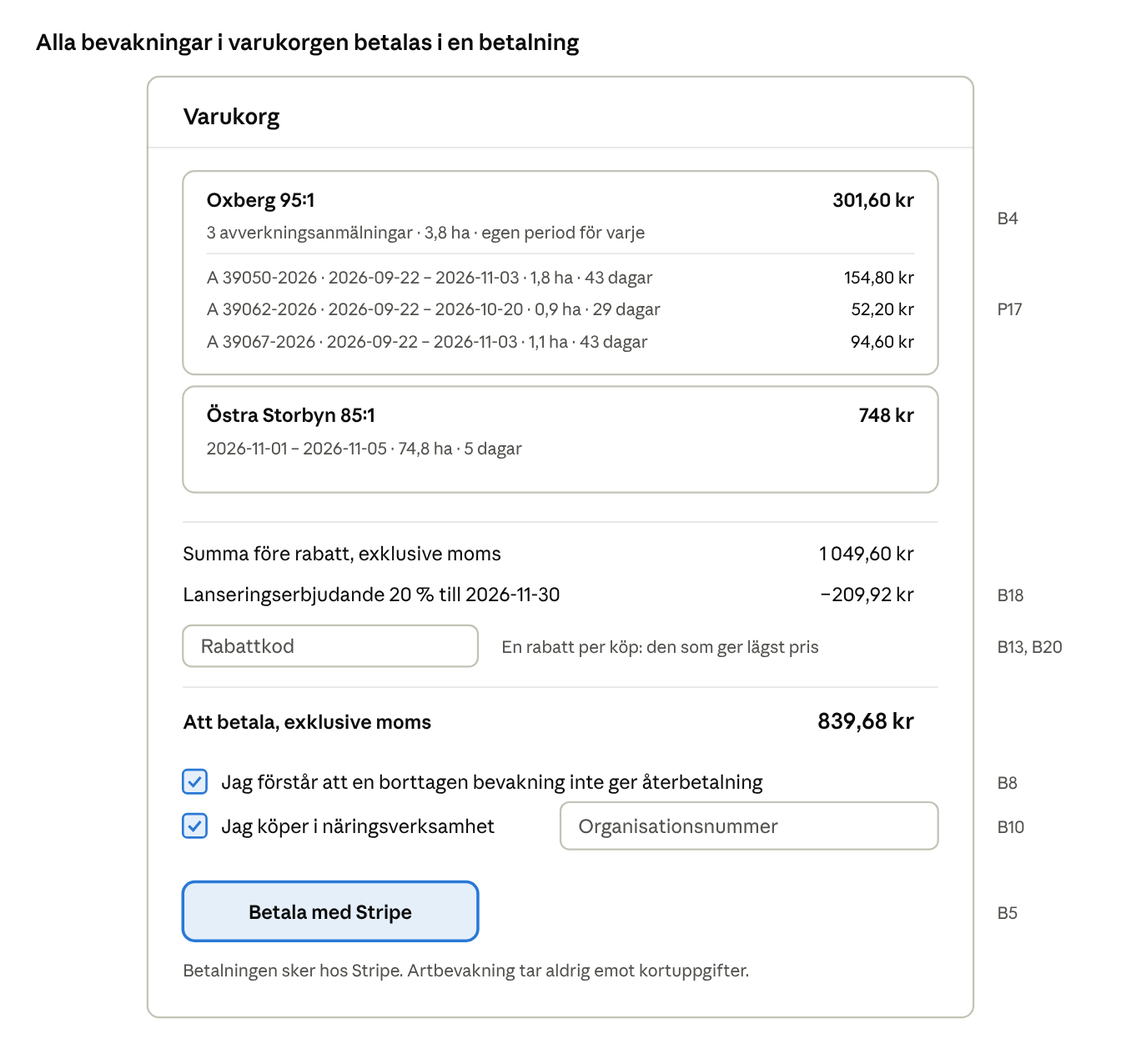
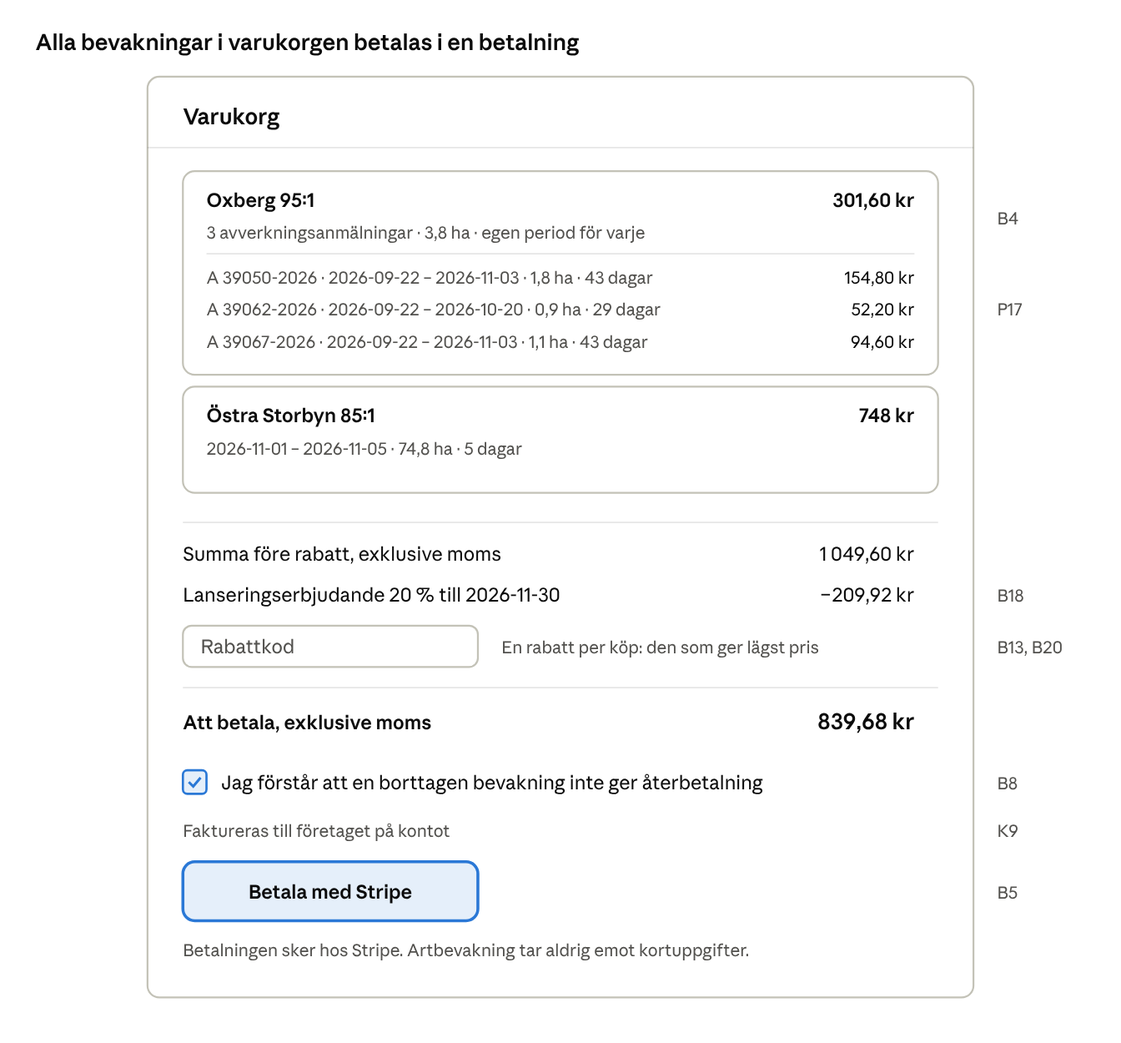
Beslut från grillningen: organisationsnummer vid registrering, rader, sökning per bevakning, svenska, återbetalning m.m.

diff --git a/artlarm/docs/PRD.md b/artlarm/docs/PRD.md
@@ -58,7 +58,7 @@ Kraven är numrerade så att de kan refereras i test och uppföljning. "Ska" är
 
 | ID | Krav |
 | --- | --- |
-| K1 | En kund ska kunna skapa ett personligt konto med e-postadress och lösenord. |
+| K1 | En kund ska kunna skapa ett konto för sitt företag med e-postadress, lösenord och organisationsnummer (K9). |
 | K2 | E-postadressen ska verifieras med länk innan bevakningar kan betalas (förslag). |
 | K3 | Kunden ska kunna logga in, logga ut och återställa lösenord via e-post. Version 1 har e-post och lösenord; valfri tvåfaktor för kunder och BankID är möjliga senare utökningar (avsnitt 15). |
 | K4 | Lösenord lagras hashade med modern algoritm (t.ex. Argon2 eller bcrypt); inloggningsförsök begränsas mot gissning. |
@@ -66,6 +66,8 @@ Kraven är numrerade så att de kan refereras i test och uppföljning. "Ska" är
 | K6 | Kunden ska kunna avsluta sitt konto. Alla pågående bevakningar tas då också bort och bevakningen upphör direkt. kunden måste först bekräfta, efter att ha informerats om att ingen återbetalning sker och vilka bevakningar som tas bort (som H2). Personuppgifter raderas enligt avsnitt 9, utom det som måste sparas för bokföring. |
 | K7 | Vid registrering ska kunden aktivt godkänna att hens uppgifter lagras och behandlas (GDPR), efter att ha läst integritetspolicyn. Utan godkännande skapas inget konto. Rutans text innehåller en länk till integritetspolicyn. Godkännande, policyns version och tidpunkt loggas. Den rättsliga grunden fastställs i avsnitt 9. |
 | K8 | Vid registrering ska kunden aktivt godkänna användarvillkor som bland annat anger att ingen återbetalning sker, ansvarsbegränsning och datakällornas begränsningar. Rutans text innehåller en länk till användarvillkoren, som kan läsas innan godkännandet. Godkännande, villkorens version och tidpunkt loggas. Vid väsentligt ändrade villkor ska kunden godkänna de nya vid nästa inloggning. Utkast till villkoren och till integritetspolicyn finns i avsnitt 14. |
+| K9 | Vid registrering ska kunden ange organisationsnummer (tio siffror, svenskt) och aktivt intyga med en ikryssad ruta att registreringen sker i näringsverksamhet. Numret formatkontrolleras men kontrolleras inte mot register i version 1. Utan nummer och intyg skapas inget konto. Intyg, organisationsnummer och tidpunkt sparas och skrivs på kvitto och faktura. |
+| K10 | Ett organisationsnummer kan bara ha ett konto i version 1. Numret låses på kontot efter registreringen och kan ändras bara av support. Flera användare per organisation är en framtida utökning (avsnitt 15.2 och 15.3). Enskilda firmor tillåts; då är organisationsnumret ett personnummer och behandlas som personuppgift: det visas aldrig i mejl eller statistik och skrivs bara på fakturan och i kontots egna inställningar (avsnitt 9). |
 
 ### 5.2 Bevakningar och fastigheter
 
@@ -89,6 +91,7 @@ Kraven är numrerade så att de kan refereras i test och uppföljning. "Ska" är
 | P16 | Fastighetens geometri och de valda avverkningsanmälningarnas ytor sparas som en ögonblicksbild vid köp och används under hela bevakningen, även om Lantmäteriets eller Skogsstyrelsens data ändras senare. |
 | P17 | Vid avverkningsval har varje vald avverkningsanmälan egen period, egen yta och eget pris (en rad). Ett fynd ger notis för en rad bara om det ligger inom radens yta och period, och notisen anger ärendenummer. Bevakningen är en kundens enhet för köp, varukorg och borttagning; raderna har egen status och egen förlängning. |
 | P18 | Valda avverkningsanmälningar prissätts var och en för sig, även när deras ytor och perioder överlappar; ingen sammanslagning av ytor görs. Fakturan visar därför en rad per anmälan. |
+| P19 | Ändras eller försvinner en avverkningsanmälan ur Skogsstyrelsens fil efter köpet fortsätter raden med den frusna ytan (P16), utan återbetalning (B8). Raden får en markering i Mina bevakningar ("anmälan finns inte längre hos Skogsstyrelsen"), men kunden får ingen särskild notis. |
 
 ### 5.3 Mottagare
 
@@ -110,6 +113,7 @@ Kraven är numrerade så att de kan refereras i test och uppföljning. "Ska" är
 | L7 | Varje kontroll som hittar nya observationer skickar ett enda mejl per bevakning med alla nya observationer i en lista (art, tid, länk, ärendenummer vid avverkningsval, markering för osäkert läge), sorterad efter observationernas klockslag. En inventering som pagår längre än tiden mellan kontrollerna kan därför ge flera mejl, ett för varje kontroll där nya observationer har tillkommit. |
 | L8 | Tjänsten gör en kontroll var 15:e minut. Löftet till kunden är en notis inom 30 minuter från att observationen syns i SOS (95 % av notiserna). SOS visade i en mätning 2026-10-27 nya observationer ca 10 minuter efter rapport. Avverkningsfilen hämtas nattligen. |
 | L9 | Ett mejl visar högst de 50 senaste observationerna och antalet övriga. Alla träffar ligger som CSV-bilaga. Det gäller både startrapport och vanliga notiser vid stor inventering. |
+| L10 | Ett fynd som ligger inom flera raders yta och period ger en enda notis per bevakning, som listar alla matchande ärendenummer (L4, P17). |
 
 ### 5.5 Daglig sammanfattning
 
@@ -204,10 +208,10 @@ Kunden betalar 2 kr per hektar och dag för bevakad yta, i förskott, och priset
 | B4 | Kunden ska kunna lägga flera bevakningar i en varukorg och betala allt på en gång, med en enda betalning. |
 | B5 | Betalning görs med en extern betalningslösning, t.ex. Stripe Checkout. Kortuppgifter hanteras aldrig av Artbevakning. Version 1 stöder kortbetalning; Swish och faktura kan komma senare. |
 | B6 | En bevakning aktiveras först när betalningen bekräftats av betalningsleverantörens webhook. Webhooks hanteras idempotent så att samma betalning inte aktiverar två gånger. |
-| B7 | Kunden får en betald faktura (via Stripe Invoicing) med specifikation per bevakning (fastighet, hektar, dagar, belopp, moms) och vid avverkningsval per avverkningsanmälan (ärendenummer, hektar, period, dagar, belopp), som mejlas. Moms beräknas med Stripe Tax: 25 %, och omvänd skattskyldighet för EU-företag med giltigt momsnummer. Kunden anger organisationsnummer (B10) och fakturaadress i kassan. |
+| B7 | Kunden får en betald faktura (via Stripe Invoicing) med specifikation per bevakning (fastighet, hektar, dagar, belopp, moms) och vid avverkningsval per avverkningsanmälan (ärendenummer, hektar, period, dagar, belopp), som mejlas. Moms beräknas med Stripe Tax: 25 % för svenska företag; EU-företag med momsnummer och omvänd skattskyldighet är en framtida utökning. Fakturan använder kontots organisationsnummer (K9) och kunden anger fakturaadress i kassan. |
 | B8 | En borttagen bevakning ger ingen återbetalning. Kunden informeras vid köp och vid borttagning och måste bekräfta (H2). |
 | B9 | Dagar räknas från och med startdatum till och med slutdatum och inkluderar dagar före köpdatum. Vid avverkningsval räknas dagarna per rad. Perioden har ingen fast längdgräns; en varning visas över 3 månader (P4). |
-| B10 | Tjänsten säljs till företag och yrkesutförare. Priser visas exklusive moms och moms läggs på vid betalning. Köparen intygar vid köp med en ikryssad ruta att det sker i näringsverksamhet och anger organisationsnummer (obligatoriskt). Numret formatkontrolleras men kontrolleras inte mot register i version 1. Intyg, organisationsnummer och tidpunkt sparas och skrivs på kvittot. |
+| B10 | Tjänsten säljs till företag och yrkesutförare. Priser visas exklusive moms och moms läggs på vid betalning. Intyget om näringsverksamhet och organisationsnumret anges vid registreringen (K9) och frågas inte om vid köp; kassan visar vem som faktureras. Kontots uppgifter skrivs på kvitto och faktura. |
 | B11 | Ett konfigurerbart tak per köp (belopp eller hektar) gäller. Över taket visas "kontakta oss" i stället för betalning. Taket är initialt 5 000 kr per köp, ändras av en administratör (förslag) och är den hårda gränsen; det finns ingen separat gräns för periodens längd. Taket gäller varukorgens fullpris före rabatt, och komplettering och förlängning räknas som övriga rader i samma varukorg. |
 | B12 | Support sker via e-post till support@mjukvaruverkstan.se, som visas i gränssnittet och i mejlen. Adressen finns inte ännu och måste skapas före lansering. Svar ges inom 3 arbetsdagar och svarstiden anges för kunden. Återbetalning görs bara manuellt, via Stripe, när fel uppstått hos Artbevakning. |
 | B13 | Kunden ska kunna ange en rabattkod i varukorgen. En giltig kod ger en procentuell rabatt på varukorgens belopp före moms, som visas på en egen rad med nytt totalbelopp. En ogiltig eller borttagen kod ger ett tydligt felmeddelande. |
@@ -216,9 +220,10 @@ Kunden betalar 2 kr per hektar och dag för bevakad yta, i förskott, och priset
 | B16 | Ytan avrundas uppåt per bevakning, vid avverkningsval per rad, till närmaste 0,1 ha (aldrig nedåt) och priset räknas exakt i öre. Minsta belopp per köp är 200 kr, räknat på varukorgens fullpris före rabatt och exklusive moms; är fullpriset lägre debiteras 200 kr. |
 | B17 | Priset låses när kunden går till kassan. Varukorgen sparas 7 dagar; öppnas kassan igen räknas priset om. En betalning gäller hela varukorgen: antingen aktiveras alla bevakningar eller ingen. En misslyckad betalning lämnar varukorgen kvar. |
 | B18 | Ett tidsbegränsat erbjudande är en procentuell rabatt som gäller alla kunder automatiskt, utan kod, på hela varukorgen (alla rader, även kompletteringar och förlängningar). Det har namn, rabatt i procent (1–99), startdatum och slutdatum med klockslag i svensk tid. Vilket erbjudande som gäller avgörs när priset låses vid kassan (B17); en betalning som slutförs efter erbjudandets slut behåller rabatten om kassan öppnades under erbjudandet (kassans giltighet högst 24 timmar, förslag). Högst ett erbjudande får vara aktivt åt gången. |
-| B19 | Förstagångsrabatten är en procentuell rabatt (1–99) på ett organisationsnummers första genomförda köp. Den ges automatiskt i kassan och kan slås på och av, och procenten kan ändras, av en administratör. Ett köp räknas som första när betalningen genomförts; ett köp på 0 kr räknas inte. Rabatten följer organisationsnumret (B10) så att den inte tas flera gånger genom att skapa nya konton; eftersom numret bara formatkontrolleras i version 1 är skyddet begränsat. |
+| B19 | Förstagångsrabatten är en procentuell rabatt (1–99) på ett organisationsnummers första genomförda köp. Den ges automatiskt i kassan och kan slås på och av, och procenten kan ändras, av en administratör. Ett köp räknas som första när betalningen genomförts; ett köp på 0 kr räknas inte. Rabatten följer kontots organisationsnummer (K9, K10); eftersom numret bara formatkontrolleras i version 1 kan någon registrera ett annat nummer, så skyddet är begränsat. |
 | B20 | Ett köp får en enda rabatt: den som ger lägst pris av erbjudandet, förstagångsrabatten och rabattkoden. Rabatter kombineras inte (jfr B14). Anger kunden en rabattkod som ger mindre rabatt än den som redan gäller visas ett meddelande och den bättre rabatten behålls. |
 | B21 | Gällande erbjudande (namn, procent och slutdatum) visas på sidan Ny bevakning och i varukorgen, och den rabatt som används visas på en egen rad med belopp före moms och nytt totalbelopp. Rabattens namn och procent sparas på köpet och skrivs på fakturan och kvittot (B7, B14). Rabatten räknas på varukorgens belopp före moms; beloppstaket (B11) och minsta beloppet (B16) räknas på fullpriset före rabatt. |
+| B22 | Vid full återbetalning av ett köp (B12) återställs förstagångsrabatten och den inbjudnas rabatt. Inbjudarens rabatt dras tillbaka om den inte hunnit användas; har den redan använts sker ingen justering. |
 
 **Räkneexempel (förslag på beräkning, belopp utan moms):**
 
@@ -278,8 +283,10 @@ Tjänsten ska drivas på egen server eller i en molntjänst, till exempel AWS, o
 | D16 | Lokal provning | Lokalt kan tjänstens klocka ställas fram, så att kontrollen var 15:e minut, sammanfattningen kl 09:00, periodens slut, de 14 dagarna efter slutdatum och varukorgens 7 dagar går att pröva utan att vänta. Mot Artdatabanken, Lantmäteriet och Skogsstyrelsen används de riktiga tjänsterna med nycklar i en lokal .env-fil som inte checkas in; för tester finns inspelade svar så att de går utan nät och nycklar. Lokal seed-data har två exempelfastigheter (Mora Oxberg 95:1 och Östra Storbyn 85:1), ett testkonto och en testadministratör med fast tvåfaktorkod som bara gäller lokalt. |
 | D17 | Gränssnitt | Webbgränssnittet ska fungera på mobil, iPad och dator i vanliga webbläsare, från en skärmbredd på ca 375 px: responsiv layout, tabeller och datumfält per rad som staplas på smal skärm, och tryckytor som går att träffa med fingret (minst 44 px, förslag). Kassan (Stripe Checkout) och mejlens länkar ska fungera i mobilens webbläsare. Samma funktioner finns på alla enheter. |
 | D18 | Installation | Första lösningen ska gå att installera lokalt på en Mac eller en Linux-maskin (Apple-silikon och x86-64) med bara Docker och Git som förutsättningar: ett kommando för installation, ett för start, ett för stopp och ett som rensar den lokala datan, och en kort beskrivning. Ingen molnresurs behövs. Samma containerbilder används som på AWS (D12). |
-| D19 | Bokföring | Bokföring går genom en adapter med två lägen: simulerad Bokio och Bokio. Den simulerade tar emot anrop av samma slag som Bokios API (verifikat, fakturor och bilagor), visar dem i en enkel lokal lista som kan hämtas som CSV och kontaktar aldrig Bokio. Varje betald faktura (B7), kreditering och Stripe-avgift ger ett verifikat med intäkt, moms och avgift. Skiftet till Bokio sker via konfiguration, med en integrationstoken som hålls utanför koden. Riktiga Bokio ingår inte i första lösningen. |
+| D19 | Bokföring | Bokföring går genom en adapter med två lägen: simulerad Bokio och Bokio. Den simulerade tar emot anrop av samma slag som Bokios API (verifikat, fakturor och bilagor), visar dem i en enkel lokal lista som kan hämtas som CSV och kontaktar aldrig Bokio. Varje betald faktura (B7), kreditering och Stripe-avgift ger ett verifikat med intäkt, moms och avgift. Skiftet till Bokio sker via konfiguration, med en integrationstoken som hålls utanför koden. Riktiga Bokio ingår inte i första lösningen. Kontona i verifikaten (intäkt, utgående moms, avgift och utbetalning) är en inställning med BAS-standardens konton som utgångspunkt; kontoplanen fastställs av bokföraren innan riktiga Bokio kopplas in. |
 | D20 | Område | Första lösningen behöver bara fungera för fastigheter i Dalarnas län. En fastighet utanför länet avvisas vid sökningen med ett begripligt meddelande. Avverkningsfilen läses in filtrerad på Dalarnas län, observationssökningen begränsas till länet och fastighetsuppslagen görs bland länets 15 kommuner. Länet ska vara en inställning, så att fler län kan läggas till utan kodändring. |
+| D21 | Sökning | Sökningen mot SOS görs en gång per bevakning och kontroll, över de aktiva radernas samlade yta och tidigaste startdatum. Filtreringen på yta och period per rad görs i tjänstens egen databas, och utgångna rader ingår inte i sökningen. |
+| D22 | Språk | Gränssnitt, mejl, villkor och fakturor är på svenska i version 1. Andra språk är en framtida utökning. |
 
 ## 9. Juridik, integritet och villkor
 
@@ -289,13 +296,14 @@ Innan tjänsten tas betalt för behöver följande kläras av jurist; punkterna 
 | --- | --- |
 | Personuppgifter (GDPR) | Tjänsten lagrar kundens e-postadress och kan lagra telefonnummer, plus uppgifter om vilka fastigheter en person bevakar. Behöver integritetspolicy, laglig grund, personuppgiftsbiträdesavtal med molnleverantör, Stripe och e-postleverantör, samt rutin för radering och utdrag. Aktivt godkännande vid registrering (K7) är ett krav från beställaren; om det juridiskt ska vara samtycke eller information, och vilken rättslig grund som gäller, avgörs av juristen. |
 | Mottagare | Endast kontoinnehavarens egen e-postadress får notiser. Det undviker att Artbevakning hanterar uppgifter om tredje part och därmed blir personuppgiftsbiträde åt kunden för andra mottagares adresser (juristen bekräftar). |
-| Villkor och återbetalning | Ingen återbetalning när en bevakning tas bort. Kunden informeras vid köp och vid borttagning och bekräftar (H2, B8). Om konsumenter ska kunna köpa måste ångerrätt vid distansköp och samtycke till direkt påbörjad tjänst hanteras; om tjänsten riktas till företag och yrkesutförare kan det förenklas. Beslut: tjänsten säljs till företag och yrkesutförare, vilket förenklar konsumentreglerna; köparen intygar med en ruta och anger organisationsnummer vid köp (B10). |
+| Villkor och återbetalning | Ingen återbetalning när en bevakning tas bort. Kunden informeras vid köp och vid borttagning och bekräftar (H2, B8). Om konsumenter ska kunna köpa måste ångerrätt vid distansköp och samtycke till direkt påbörjad tjänst hanteras; om tjänsten riktas till företag och yrkesutförare kan det förenklas. Beslut: tjänsten säljs till företag och yrkesutförare, vilket förenklar konsumentreglerna; kunden intygar vid registreringen med en ruta och anger organisationsnummer (K9). |
 | Moms och bokföring | Moms på tjänsten (förmodligen 25 %), kvitto/faktura enligt kraven, och lagring av transaktionsunderlag enligt bokföringslagen, vilket begränsar radering av ett konto (K6). |
 | Datalicenser | Artdatabankens villkor, licenser per datakälla i SOS (iNaturalist-observatörer väljer licens per observation och den följer med i SOS-datat; i ett stickprov kring Uppsala (14 230 observationer sedan 2026-01-01) hade 1 952 av 2 560 iNaturalist-observationer licensen cc-by-nc, som utesluter kommersiell användning, medan Artportalens fynd anges som "Free usage" utan uttalad licens), Lantmäteriets villkor för kommersiell tjänst och avverkningsanmälans licens (Skogsstyrelsen: CC0, klarlagd). Notiserna visar art, tid, ungefärligt läge och länk, inte bilder. Frågor till juristen: (1) räknas notisens innehåll som användning av licensierat material, (2) gäller "icke-kommersiell" en betald tjänst som bara visar fakta och länk, och (3) ger Artdatabankens villkor för SOS rätt till kommersiell användning av alla källor. |
 | Skyddade arter | Fynd som Artdatabanken har dolt eller generaliserat ger inget eller bara osäkert notis, medan öppna fynd av skyddade arter ger notis; detta ska framgå i villkoren så att tjänsten inte läses som en fullständig garanti. |
 | Ansvar | Notiserna är information från tredje part och kan vara försenade, ofullständiga eller ha osäkert läge. Villkoren ska innehålla ansvarsbegränsning. Ingen ägarkontroll görs av fastigheter i version 1; villkoren lägger ansvaret på kunden (juristen bekräftar). |
 | Cookies | Endast nödvändiga cookies för inloggning i första versionen, så att ingen samtyckesbanner behövs (förslag). Det gäller så länge reklamen inte använder tredjepartsskript eller spårning (avsnitt 16). |
 | Besöksstatistik och kakor | Statistiken (avsnitt 5.9) är tänkt att samlas in utan kakor och utan lagrad IP-adress, för att undvika samtycke och kakbanner. En jurist ska bekräfta att det håller och att koppling av användningshändelser till kontot täcks av berättigat intresse eller avtal, samt godkänna texten i integritetspolicyn. |
+| Enskild firma och personnummer | Organisationsnumret för en enskild firma är ett personnummer, som är särskilt skyddat i svensk lag (K10). Tjänsten sparar numret och visar det bara på fakturan och i kontots inställningar. En jurist ska bekräfta att det håller och vad policyn ska säga. |
 
 ## 10. Mätetal och acceptanskriterier
 
@@ -328,7 +336,7 @@ Kraven "så snart" (L1) och daglig sammanfattning kl 09:00 (S2) blir mätbara me
 | B13, A2, A4 | En giltig kod sänker totalen med rätt procent och visas på kvittot. En borttagen kod avvisas i nya köp men påverkar inte tidigare köp. Ändrat grundpris gäller nya köp, och redan köpta bevakningar behåller sitt pris. En vanlig kund når inte administrationen (A6). |
 | H4, H5 | En bevakning på 30 dagar kan förlängas; blir den totala perioden längre än 3 månader visas en varning, och förlängningen avvisas bara om köpet överstiger taket. Förlängningen ligger i varukorgen och ändrar slutdatum först när betalningen är bekräftad. |
 | P13 | Listan visar alla fastighetens avverkningsanmälningar i källan. Priset räknas bara på valda avverkningsanmälningar, och en fastighet utan någon vald avverkningsanmälan kan inte köpas med valet. Förvalt startdatum är den tidigaste valda avverkningsanmälans inkomdatum och förvalt slutdatum är den senaste valda plus 6 veckor. |
-| B10 | Ett köp utan ikryssat intyg, eller utan organisationsnummer i giltigt format, avvisas. Intyg, organisationsnummer och tidpunkt finns sparade och står på kvittot. |
+| B10 | En registrering utan ikryssat intyg, eller utan organisationsnummer i giltigt format, avvisas, och ett organisationsnummer som redan har ett konto avvisas. Intyg, organisationsnummer och tidpunkt finns sparade och står på kvittot, och kassan frågar inte efter dem. |
 | A1 | En administratör kan inte logga in utan tvåfaktor, och administratörskonton kan inte skapas eller göras till administratör via gränssnittet eller API:t. |
 | P14 | För Östra Storbyn 85:1 med båda avverkningsanmälningarna valda (inkomna 2023-05-31 och 2026-02-18) blir förvald period 2023-05-31 till 2026-04-01 med en varning om att den är längre än 3 månader, och köpet avvisas eftersom priset överstiger 5 000 kr. |
 | L6 | I förvalt läge ges notis för Artportalens fynd och observationer med cc0, cc-by eller cc-by-sa, men inga med cc-by-nc, cc-by-nc-sa eller utan angiven licens från andra källor än Artportalen. Administratören kan ändra filtret utan ny version. |
@@ -341,6 +349,7 @@ Kraven "så snart" (L1) och daglig sammanfattning kl 09:00 (S2) blir mätbara me
 | D17 | Registrering, ny bevakning med flera rader, varukorg, betalning och Mina bevakningar går att genomföra på en mobil (375 px bred) och på en iPad utan sidledes rullning och med alla knappar och fält nåbara med fingret. |
 | D18–D20 | På en ren Mac och en ren Linux-maskin med Docker och Git startar installationskommandot hela tjänsten. Ett simulerat köp av en bevakning för en fastighet i Dalarna ger en aktiv bevakning, en faktura, en notis i mejlfångaren och ett verifikat i den simulerade Bokio. En fastighet utanför Dalarna avvisas med ett begripligt meddelande. |
 | T1–T8 | Efter en testkörning med besök, registrering, köp och notiser visar administrationens statistik rätt antal i varje steg av trattten, och databasen innehåller ingen IP-adress. Inga kakor utom inloggningens sätts. Ett avslutat konto saknar kopplade händelser. Statistiken syns inte för vanliga kunder. |
+| K9, K10, P19, L10, B22, D21 | Ett andra konto med samma organisationsnummer avvisas, och numret kan inte ändras av kunden. En avverkningsanmälan som försvinner ur filen efter köpet ger en markering på raden men bevakas vidare utan ny yta och utan notis. Ett fynd inom två överlappande rader ger en notis med båda ärendenumren. Efter full återbetalning kan förstagångsrabatten användas igen. En bevakning med tre rader ger en sökning mot SOS per kontroll. |
 
 ## 11. Milstolpar och leveransplan
 
@@ -375,7 +384,7 @@ Alla frågor har besvarats av beställaren och är inlagda i kraven.
 | 10. Pris för komplettering | Nya hektar × återstående dagar × grundpris. Slutdatum är oförändrat. | P11 |
 | 11. Rabattkodens regler | Flergångskod utan giltighetstid, en kod per köp, ingen kombination av koder. | B14 |
 | 12. Vilka avverkningsanmälningar räknas | Kunden väljer avverkningsanmälningar i en lista över källans hela period (ca 5 år). Startdatum föreslås som tidigaste valda avverkningsanmälan och slutdatum som senaste valda plus 6 veckor (P13, P14). | P13 |
-| 13. Intyg om näringsverksamhet | Ikryssad ruta plus obligatoriskt organisationsnummer. Formatkontroll men ingen registerkontroll i version 1. | B10 |
+| 13. Intyg om näringsverksamhet | Ikryssad ruta plus obligatoriskt organisationsnummer, båda vid registreringen. Formatkontroll men ingen registerkontroll i version 1. | B10 |
 | 14. Administratörer | Tvåfaktor krävs. Administratörer skapas manuellt av driftansvarig, inte via gränssnittet. | A1 |
 | 15. En fastighet per bevakning | Flera fastigheter bevakas med flera bevakningar i samma varukorg. | P1 |
 | 16. Geometri vid köp | Ögonblicksbild av fastigheten och de valda avverkningsanmälningarna sparas vid köp. | P16 |
@@ -396,7 +405,7 @@ Alla frågor har besvarats av beställaren och är inlagda i kraven.
 | 31. Administratörens insäkt | Skrivskyddad, bara vid supportärende och loggad. | A7 |
 | 32. Molntjänst | AWS i Stockholm (eu-north-1) med hanterade tjänster. | D1 |
 | 33. Databas | PostgreSQL med PostGIS; geometri och skärningar i databasen. | D2 |
-| 34. Faktura | Betald faktura via Stripe Invoicing och Stripe Tax; organisationsnummer och fakturaadress i kassan. | B7 |
+| 34. Faktura | Betald faktura via Stripe Invoicing och Stripe Tax; kontots organisationsnummer och fakturaadress i kassan. | B7 |
 | 35. Kundinloggning | E-post och lösenord i version 1; tvåfaktor och BankID senare. | K3, avsnitt 15 |
 | 36. Bolag och domän | Bolaget bestäms senare; platshållarna i avsnitt 14 står kvar. Avsändardomän med SPF, DKIM och DMARC (D9) väljs när bolaget är känt. | D9, avsnitt 14 |
 | 37. Namn | Tjänsten heter Artbevakning, produkten bevakning och meddelandet notis (inte larm). Mappen artlarm/ och prototypens kod byter namn när bygget startar. | Glossarium |
@@ -416,6 +425,16 @@ Alla frågor har besvarats av beställaren och är inlagda i kraven.
 | 51. Bara Dalarna först | Första lösningen gäller fastigheter i Dalarnas län; länet är en inställning. | D20 |
 | 52. Egen statistik, inga kakor | Besöks- och användningsstatistik lagras i egen databas, utan kakor, utan IP-adress och utan tredjepartsverktyg. | T1, T2, T5 |
 | 53. Ingen spårning i mejl | Notiser mäts bara vid utskick; ingen spårningsbild och inga spårade länkar. | T4 |
+| 54. Organisationsnummer vid registrering | Organisationsnummer och intyg om näringsverksamhet anges vid registreringen och låses på kontot. | K9, K10, B10 |
+| 55. Ett konto per organisationsnummer | Ett organisationsnummer kan bara ha ett konto; flera användare är en framtida utökning. | K10 |
+| 56. Enskild firma tillåts | Personnumret som organisationsnummer behandlas som personuppgift och visas bara på fakturan. | K10 |
+| 57. Bara svenska företag | Bara svenska organisationsnummer i version 1; EU-företag med momsnummer är en framtida utökning. | K9, B7 |
+| 58. Svenska som enda språk | Gränssnitt, mejl, villkor och fakturor på svenska i version 1. | D22 |
+| 59. Anmälan som försvinner | Raden bevakas vidare med den frusna ytan, markeras och ger ingen återbetalning eller notis. | P19 |
+| 60. En notis för överlappande rader | Ett fynd i flera rader ger en notis som listar alla ärendenummer. | L10 |
+| 61. Sökning per bevakning | En SOS-sökning per bevakning och kontroll; filtrering per rad i egen databas. | D21 |
+| 62. Återbetalning återställer rabatter | Full återbetalning återställer förstagångsrabatten och den inbjudnas rabatt; inbjudarens dras tillbaka om den inte använts. | B22 |
+| 63. BAS-konton i simulerad Bokio | Konton som inställning med BAS-standard; bokföraren fastställer kontoplanen före riktiga Bokio. | D19 |
 
 **Kvarstående frågor**
 
@@ -454,7 +473,7 @@ Fastigheter, valet "endast avverkningsanmälda ytor" per fastighet med en lista 
 
 ![Skärmbild 3: varukorg och betalning](img/skarmbild-3-varukorg.png)
 
-Två bevakningar betalas med en betalning (B4, B5). Oxberg visas uppdelad i en rad per avverkningsanmälan med egen period och eget belopp (P17, B7). Ett pågående erbjudande dras av på en egen rad, tillsammans med en ruta för rabattkod; bara den bästa rabatten gäller (B18, B20, B21). Kunden informeras om att ingen återbetalning sker vid borttagning innan betalning (B8); att kryssa i rutan är ett förslag på hur det kan lösas. Köparen intygar också näringsverksamhet och anger organisationsnummer (B10).
+Två bevakningar betalas med en betalning (B4, B5). Oxberg visas uppdelad i en rad per avverkningsanmälan med egen period och eget belopp (P17, B7). Ett pågående erbjudande dras av på en egen rad, tillsammans med en ruta för rabattkod; bara den bästa rabatten gäller (B18, B20, B21). Kunden informeras om att ingen återbetalning sker vid borttagning innan betalning (B8); att kryssa i rutan är ett förslag på hur det kan lösas. Fakturan använder kontots organisationsnummer och intyget om näringsverksamhet från registreringen (K9, B10).
 
 ### 13.4 Mina bevakningar
 
@@ -488,7 +507,7 @@ Varukorgen visar bevakningens rader under varandra, och Mina bevakningar visar e
 
 ## 14. Avtal och bekräftelser (förslag)
 
-Kunden bekräftar två dokument vid registrering och två saker vid varje köp; fler avtal behövs inte, eftersom bara kontoinnehavarens egen e-postadress får notiser. Texterna nedan är utkast som juristen ska granska och fylla i (bolagsnamn, organisationsnummer, tvistelösning).
+Kunden bekräftar två dokument och intyget om näringsverksamhet vid registrering och en sak vid varje köp; fler avtal behövs inte, eftersom bara kontoinnehavarens egen e-postadress får notiser. Texterna nedan är utkast som juristen ska granska och fylla i (bolagsnamn, organisationsnummer, tvistelösning).
 
 ### 14.1 Vad kunden bekräftar och när
 
@@ -496,7 +515,7 @@ Kunden bekräftar två dokument vid registrering och två saker vid varje köp; 
 | --- | --- | --- | --- | --- |
 | Användarvillkor | Vid registrering, och vid väsentligt ändrade villkor nästa inloggning | Ikryssad ruta med länk till villkoren | Villkorens version, tidpunkt, konto | K8 |
 | Integritetspolicy (lagring av uppgifter) | Vid registrering | Ikryssad ruta med länk till policyn | Policyns version, tidpunkt, konto | K7 |
-| Köp i näringsverksamhet | Vid varje köp | Ikryssad ruta plus organisationsnummer | Intyg, organisationsnummer, tidpunkt; står på kvittot | B10 |
+| Näringsverksamhet och organisationsnummer | Vid registrering | Ikryssad ruta plus organisationsnummer | Intyg, organisationsnummer, tidpunkt; står på kvittot | K9, B10 |
 | Ingen återbetalning | Vid varje köp, vid borttagning av en bevakning och vid kontoavslut | Ikryssad ruta (vid köp och borttagning kompletterad med varning i klartext) | Tidpunkt, vad som togs bort | B8, H2, K6 |
 
 Föreslagen text vid rutorna: "Jag har läst och godkänner användarvillkoren", "Jag godkänner att mina uppgifter lagras enligt integritetspolicyn", "Jag köper i näringsverksamhet" och "Jag förstår att en borttagen bevakning inte ger återbetalning".
@@ -520,7 +539,7 @@ Villkoren är allmänna villkor för en webbtjänst (inte en EULA för installer
 ### 14.3 Integritetspolicy: utkast till innehåll
 
 - **Personuppgiftsansvarig:** \[bolaget, organisationsnummer, kontakt\].
-- **Uppgifter som lagras:** e-postadress, lösenord (endast som hash), vilka fastigheter och ytor som bevakas, bevakningar, skickade notiser, loggade godkännanden och köpintyg, betalningsunderlag samt besöks- och användningsstatistik (avsnitt 5.9). Kortuppgifter lagras inte av Artbevakning utan hos betalningsleverantören. Administratörer kan, för support och med loggning, se en kunds bevakningar och notiser.
+- **Uppgifter som lagras:** e-postadress, organisationsnummer (för enskilda firmor ett personnummer), lösenord (endast som hash), vilka fastigheter och ytor som bevakas, bevakningar, skickade notiser, loggade godkännanden och köpintyg, betalningsunderlag samt besöks- och användningsstatistik (avsnitt 5.9). Kortuppgifter lagras inte av Artbevakning utan hos betalningsleverantören. Administratörer kan, för support och med loggning, se en kunds bevakningar och notiser.
 - **Ändamål och rättslig grund:** leverera tjänsten (avtal), hantera betalning och bokföring (rättslig förpliktelse), säkerhet och missbruksskydd samt statistik för drift och utveckling (berättigat intresse). Om beslutet blir samtycke för delar av detta anges det här.
 - **Underleverantörer:** betalningsleverantör, molnleverantör och e-postleverantör; Artbevakning tecknar personuppgiftsbiträdesavtal med dem. Namn och land anges i policyn.
 - **Överföring utanför EU/EES:** om någon underleverantör gör det beskrivs skyddet (t.ex. standardavtalsklausuler).

diff --git a/artlarm/CONTEXT.md b/artlarm/CONTEXT.md
@@ -11,7 +11,7 @@ Företaget eller yrkesutövaren som köper bevakningar och äger ett konto.
 _Avoid_: Användare, köpare, ägare, kontoinnehavare
 
 **Konto**:
-Kundens inloggning och inställningar. Notiser och sammanfattning går till kontots e-postadress, som är den enda mottagaren.
+Kundens inloggning och inställningar, knutna till kundens organisationsnummer som anges vid registreringen tillsammans med intyget om näringsverksamhet. Notiser och sammanfattning går till kontots e-postadress, som är den enda mottagaren.
 _Avoid_: Profil
 
 **Varukorg**:
@@ -41,7 +41,7 @@ _Avoid_: Välkomstrabatt, nykundsrabatt
 ### Bevakningen
 
 **Bevakning**:
-Det kunden köper: en fastighet, en bevakad yta och en bevakningsperiod som ger notiser om observationer.
+Det kunden köper: en fastighet, en bevakad yta och en bevakningsperiod som ger notiser om observationer. Vid avverkningsval består den av en rad per vald avverkningsanmälan.
 _Avoid_: Prenumeration, abonnemang
 
 **Fastighet**:
@@ -65,11 +65,11 @@ En anmälan om avverkning till Skogsstyrelsen, med en yta och ett inkomdatum.
 _Avoid_: Anmälan, avverkningsyta
 
 **Komplettering**:
-Tillägg av nya avverkningsanmälningar till en pågående bevakning mot betalning för återstående dagar.
+Tillägg av nya avverkningsanmälningar som nya rader i en pågående bevakning, var och en med egen bevakningsperiod, mot betalning.
 _Avoid_: Tillägg
 
 **Förlängning**:
-Senareläggning av en bevaknings slutdatum mot betalning för tillkommande dagar.
+Senareläggning av slutdatum för en bevakning, eller vid avverkningsval för en eller flera rader, mot betalning för tillkommande dagar.
 _Avoid_: Förnyelse
 
 ### Notiserna

diff --git a/artlarm/docs/adr/0004-en-sos-sokning-per-bevakning.md b/artlarm/docs/adr/0004-en-sos-sokning-per-bevakning.md
@@ -1,0 +1,8 @@
+# En SOS-sökning per bevakning, filtrering per rad i egen databas
+
+Varje kontroll gör en sökning mot Artdatabankens SOS per bevakning, över de aktiva radernas samlade yta och tidigaste startdatum. Filtreringen på yta och period per rad görs efteråt i tjänstens egen databas, och utgångna rader ingår inte i sökningen. Antalet anrop är beroende av API-kvoten, som inte är känd (PRD avsnitt 7), så antalet sökningar ska växa med antalet bevakningar och inte med antalet rader.
+
+## Considered Options
+
+- **En sökning per rad:** enklare att förstå, men antalet anrop växer med antalet avverkningsanmälningar och kan nå kvoten tidigt, eftersom en kund kan välja många anmälningar i samma bevakning.
+- **En sökning per fastighet och kontroll, delad mellan kunder:** hade minskat anropen mer, men bryter mot att varje bevakning har egen period och egna rader, och skulle göra felsökning och kundens integritet svårare.

diff --git a/artlarm/docs/adr/0005-konto-ar-ett-foretag-med-ett-organisationsnummer.md b/artlarm/docs/adr/0005-konto-ar-ett-foretag-med-ett-organisationsnummer.md
@@ -1,0 +1,8 @@
+# Ett konto är ett företag med ett organisationsnummer
+
+Organisationsnumret och intyget om näringsverksamhet anges vid registreringen, låses på kontot och kan ändras bara av support, och ett organisationsnummer kan bara ha ett konto i version 1. Kassan frågar därför inte efter dem, och förstagångsrabatten och inbjudningarna följer kontots nummer. Enskilda firmor tillåts, och då är numret ett personnummer som behandlas som personuppgift. Flera användare per organisation, EU-företag med momsnummer och BankID är senare utökningar som bygger på detta.
+
+## Considered Options
+
+- **Organisationsnummer vid varje köp:** kunden kunde ange ett annat nummer vid varje köp och få förstagångsrabatt flera gånger, och fakturan kunde få olika mottagare från samma konto.
+- **Flera konton per organisation:** gör rabatterna enkla att kringgå och försvårar fakturering, och har ingen kund som efterfrågat det ännu.
